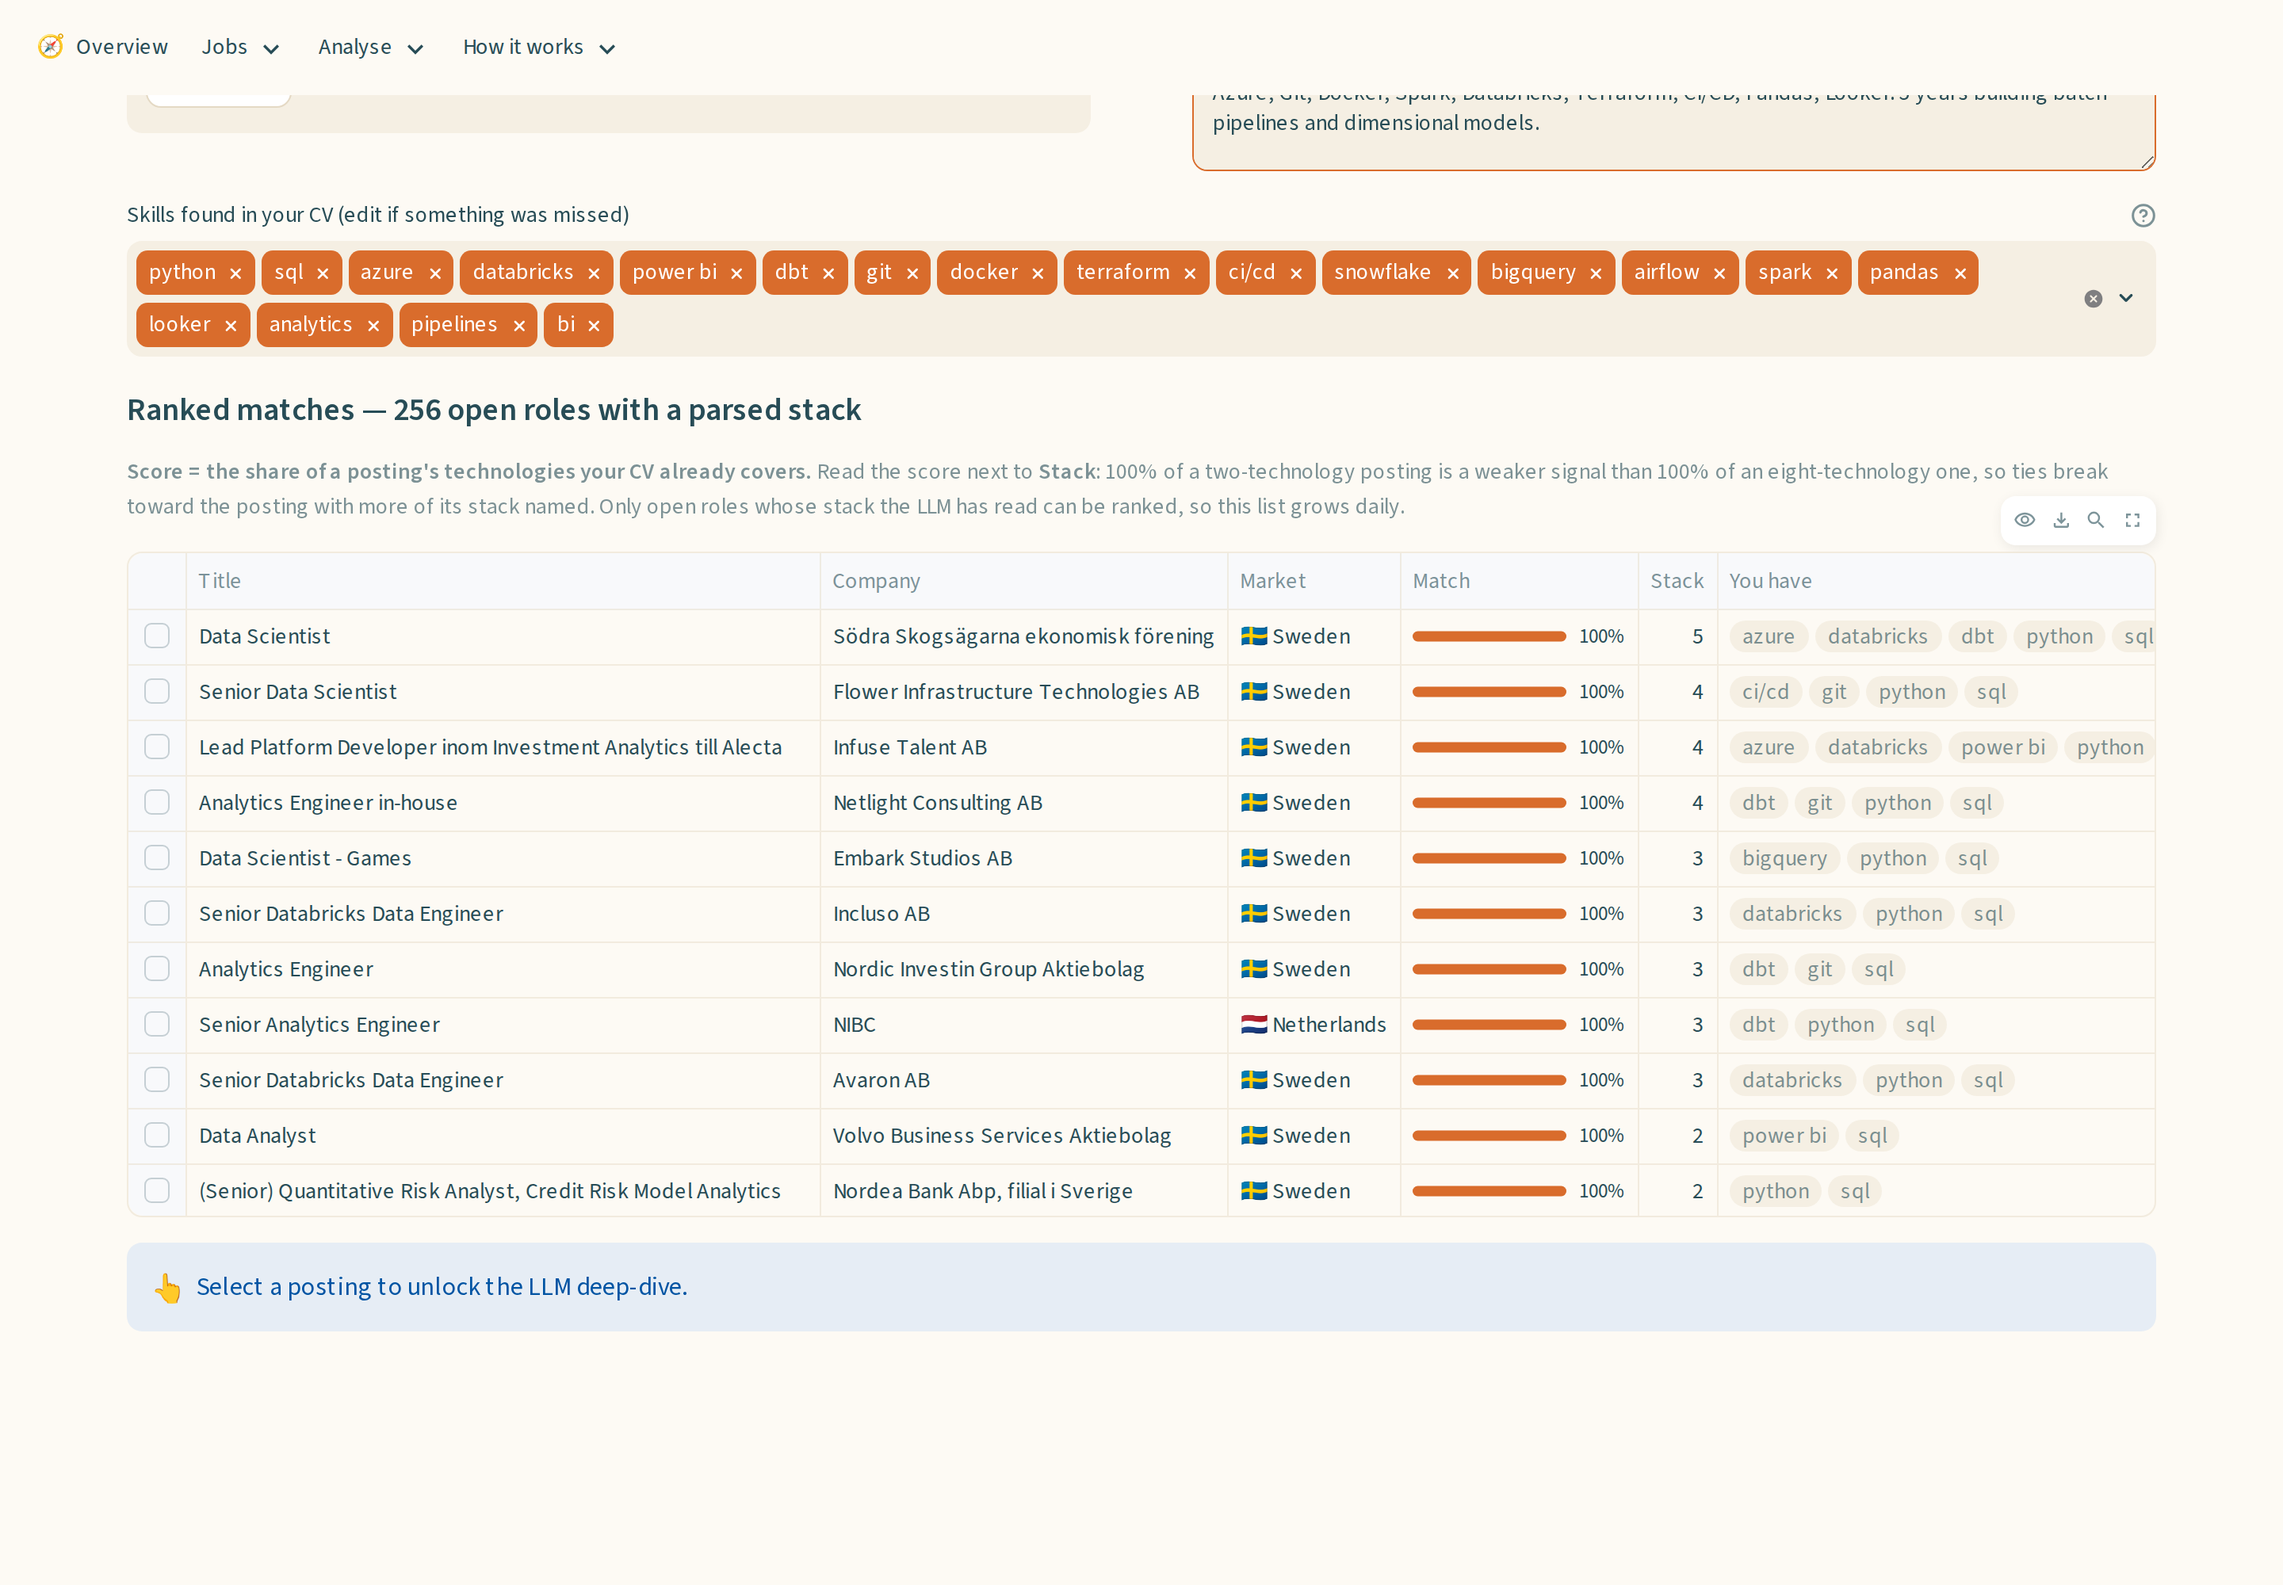
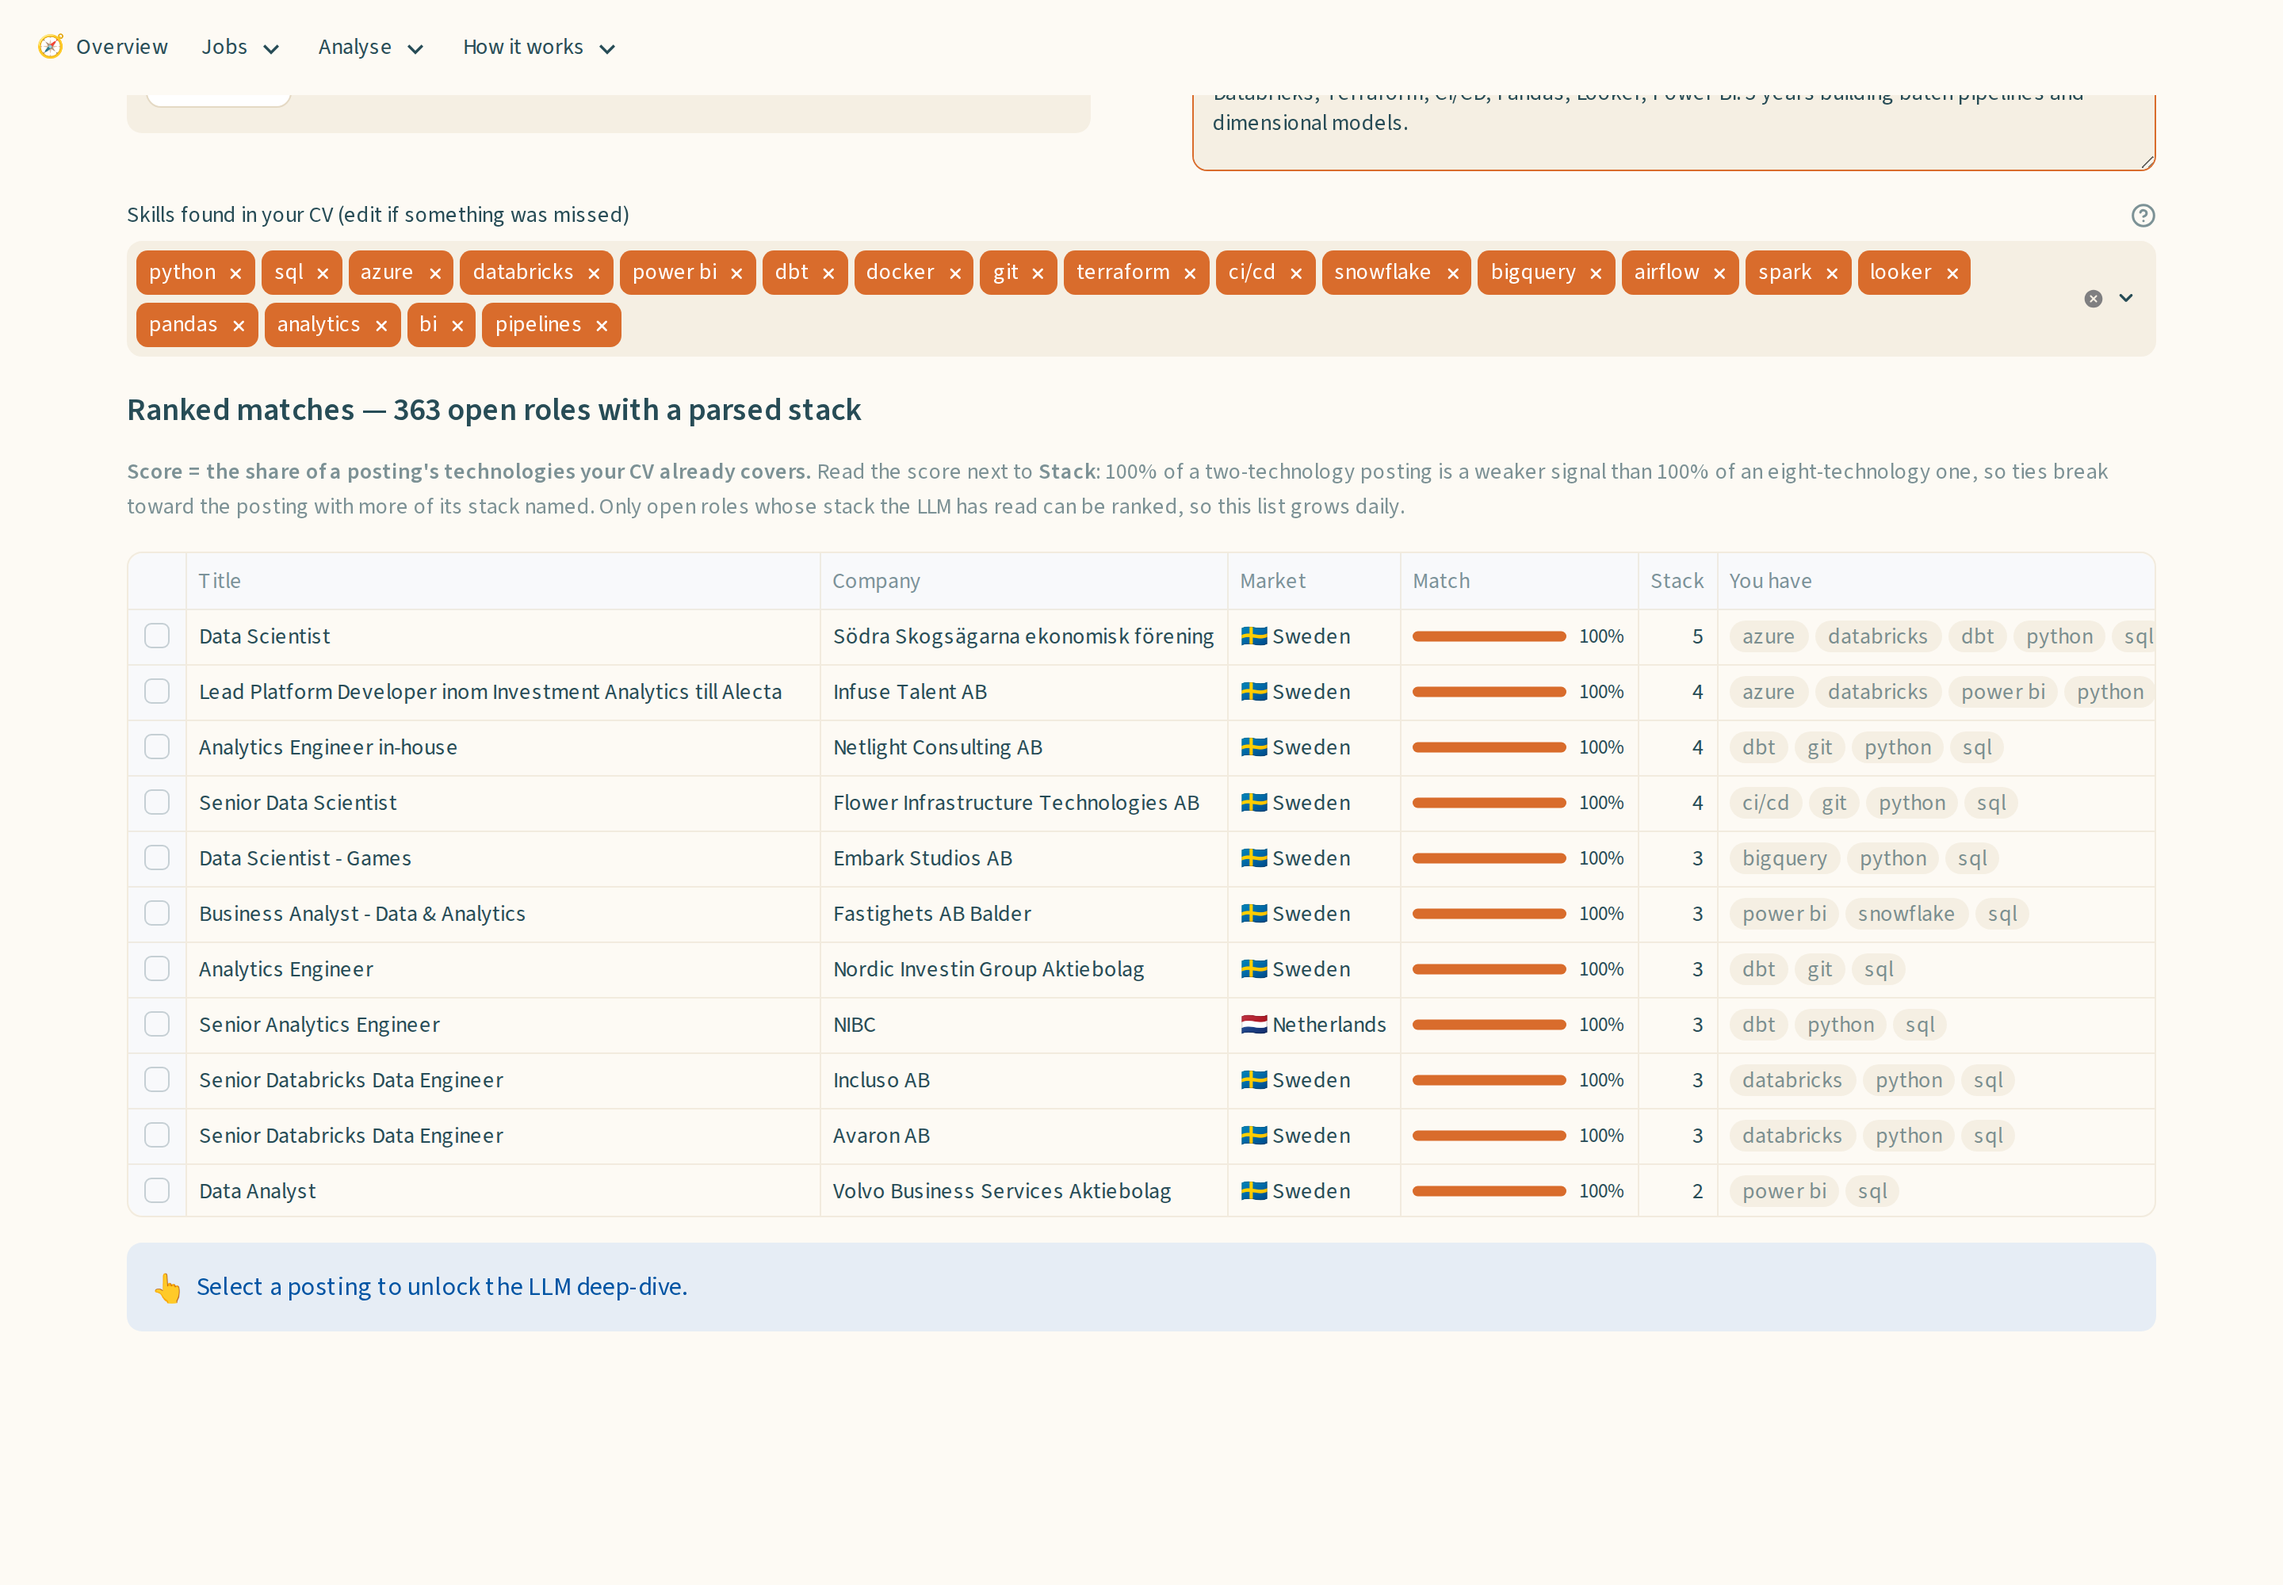
fix(app): teach the SQL agent to aggregate, and refresh four stale screenshots
Retaking the screenshots surfaced a bug in the first thing a visitor clicks.
Asked the canned example "which technologies are most in demand in Spain?",
the agent answered

    SELECT technologies FROM marts.FT_JOB_POSTING WHERE country_code = 'ES'
    LIMIT 500

— one row per posting, including the empty lists of postings whose stack was
never extracted. No ranking, no counts, no answer. The schema handed to the
model showed how to *filter* a list column (list_contains) and never how to
aggregate one, so a worked unnest example and an explicit "which/most/top/how
many means aggregate" rule are now in the prompt. A test pins both.

NOT verified end to end: the Gemini free tier returned 429 after the daily
pipeline plus two probes, so the model has not yet been observed answering the
fixed prompt. The change is prompt-only and the failure path degrades to a
visible error, so it ships; re-run the example once quota resets.

Screenshots: how-it-works, my-fit, market-trends and ask-the-data predated the
current data and contradicted the README — the How It Works shot advertised 811
open roles, 36% stack coverage and 49/49 dbt tests against today's 767, 47% and
53/53. All four retaken against the live warehouse.

diff --git a/app/streamlit_app/agent.py b/app/streamlit_app/agent.py
@@ -47,6 +47,11 @@ Tips:
   against the official IND register, verifiable via sponsor_kvk. The LLM's read of the
   posting text (is_visa_sponsor, visa_status='explicit_yes') is a secondary signal.
 - array membership: list_contains(technologies, 'dbt').
+- ranking a list column ("most in demand", "top technologies"): unnest it and count,
+  e.g. SELECT t, count(*) AS postings FROM marts.FT_JOB_POSTING, unnest(technologies)
+  AS u(t) WHERE country_code = 'ES' GROUP BY t ORDER BY postings DESC LIMIT 20.
+  Selecting the raw list column instead returns one row per posting, including the
+  empty lists of postings whose stack was never extracted, which answers nothing.
 - trends over time: group marts.FT_JOB_SNAPSHOT_DAILY by date_key.
 - country_code is ISO alpha-2 (NL, SE, DE, ES, ...); local per-country corpora come
   from adzuna (NL/DE/ES) and jobtech (SE); remote-first boards often have NULL country.
@@ -59,7 +64,9 @@ SYSTEM_PROMPT = (
     "- Output ONLY the SQL, no prose, no markdown fences.\n"
     "- Read-only: a single SELECT (or WITH ... SELECT). Never modify data.\n"
     "- Use only the marts schema below; never reference raw or staging.\n"
-    "- Always include a LIMIT (<= 500).\n\n" + MARTS_SCHEMA
+    "- Always include a LIMIT (<= 500).\n"
+    "- A question asking which, most, top or how many wants an AGGREGATE — group and "
+    "count, ordered, not a dump of raw rows.\n\n" + MARTS_SCHEMA
 )
 
 # "replace" is deliberately absent: as a bare word it is the legitimate scalar

diff --git a/app/tests/test_agent.py b/app/tests/test_agent.py
@@ -3,7 +3,13 @@
 from __future__ import annotations
 
 import pytest
-from streamlit_app.agent import build_sql, clean_sql, enforce_limit, is_safe_select
+from streamlit_app.agent import (
+    SYSTEM_PROMPT,
+    build_sql,
+    clean_sql,
+    enforce_limit,
+    is_safe_select,
+)
 
 
 def test_clean_sql_strips_fences():
@@ -78,3 +84,16 @@ def test_build_sql_happy_path():
 def test_build_sql_rejects_unsafe():
     with pytest.raises(ValueError):
         build_sql("nuke it", FakeProvider("drop table marts.FT_JOB_POSTING"))
+
+
+def test_the_prompt_teaches_how_to_rank_a_list_column():
+    """The first canned example asks "which technologies are most in demand".
+
+    Without this guidance the model answered it with a bare
+    ``SELECT technologies ... LIMIT 500`` — one row per posting, blanks
+    included, no ranking. A schema that shows only how to *filter* a list
+    column invites that, so it has to show how to aggregate one too.
+    """
+    prompt = SYSTEM_PROMPT.lower()
+    assert "unnest" in prompt
+    assert "aggregate" in prompt
